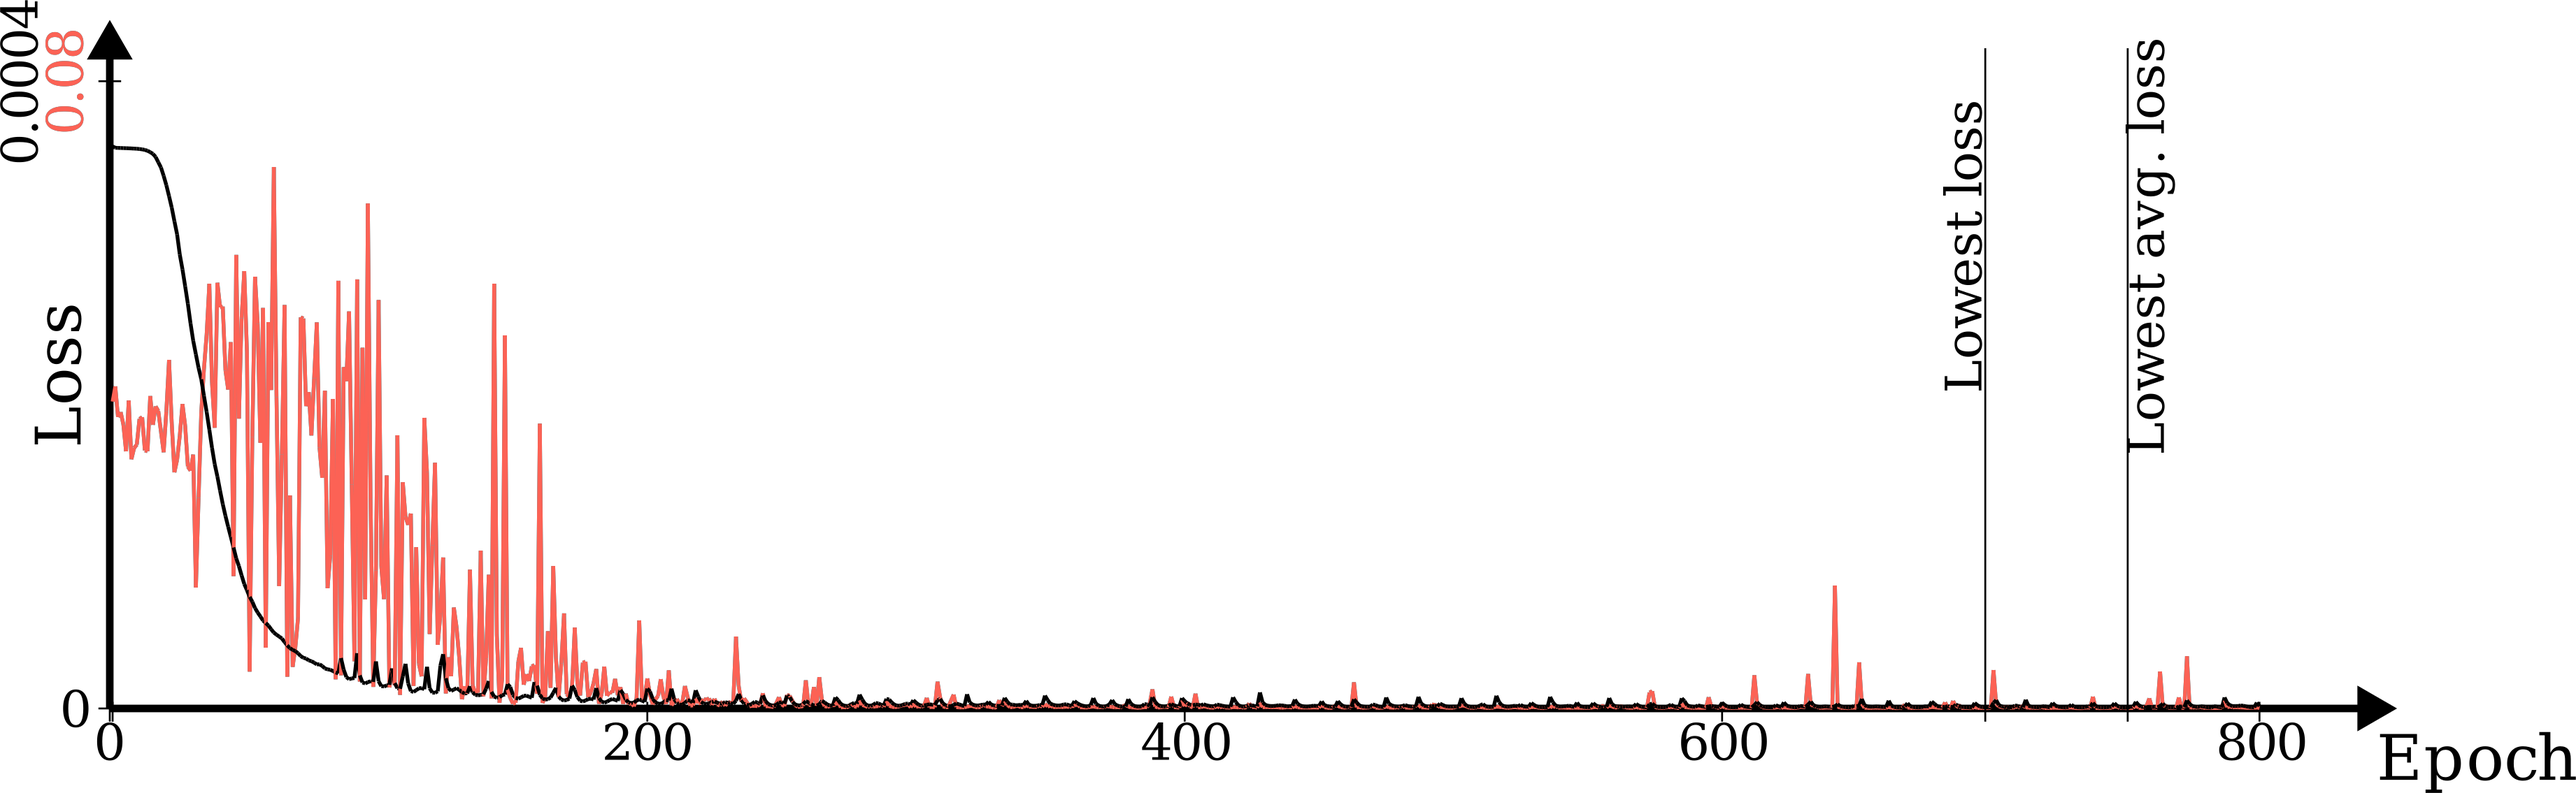
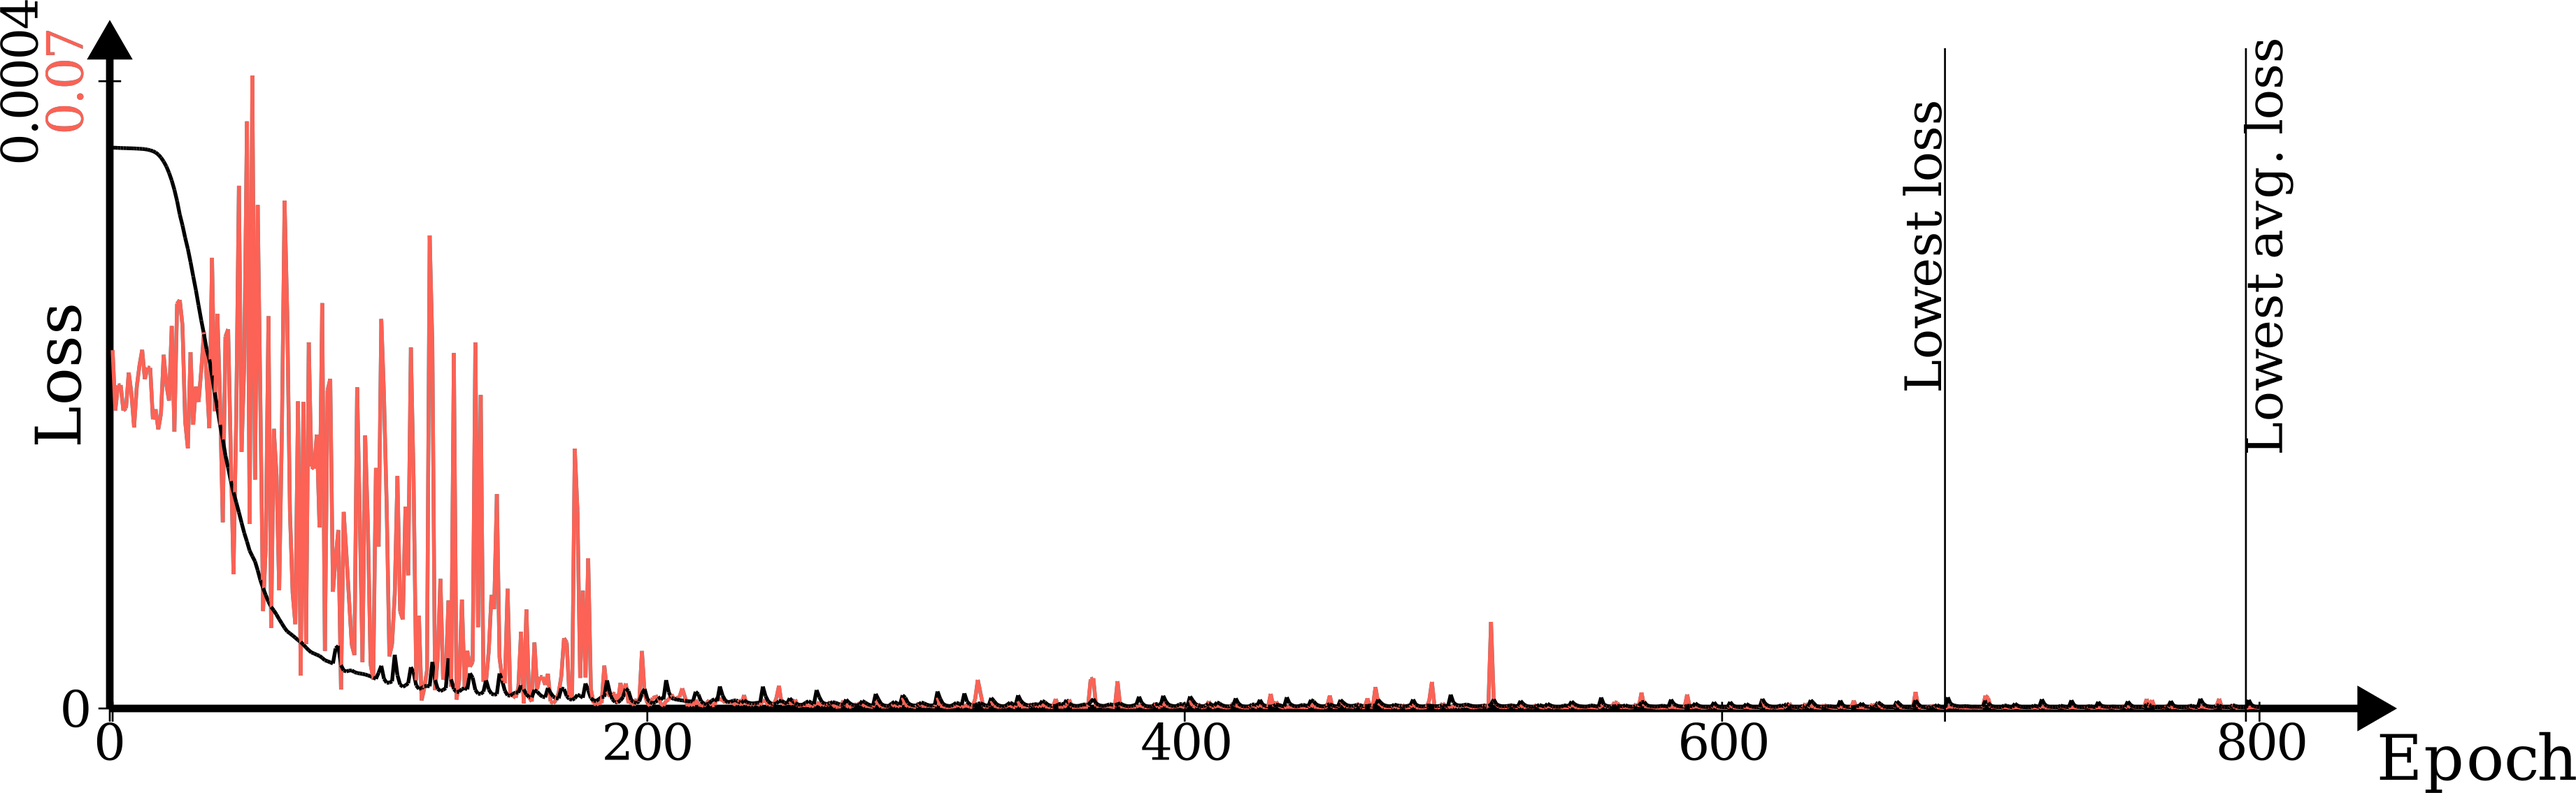
Left out files uploaded.

diff --git a/time_models.py b/time_models.py
@@ -5,7 +5,13 @@ parser = argparse.ArgumentParser()
 parser.add_argument("model")
 parser.add_argument("seed_start")
 parser.add_argument("seed_end")
+parser.add_argument("device")
 args = parser.parse_args()
+
+target_device = "cpu"
+
+if args.device:
+    target_device = args.device
 
 program_start = time.time()
 
@@ -20,6 +26,7 @@ def time_worley(seed_start,seed_end):
     for seed in range(seed_start,seed_end):
         w, c = worley((4,4), dens=16, seed=seed)
         w = w[0] 
+
         for x in range(64):
             for y in range(64):
                 data = w[x][y]
@@ -57,6 +64,8 @@ def time_model_nn(seed_start,seed_end):
     section_time = time.time()
     model.load_state_dict(torch.load(args.model,weights_only=True))
     print("\tLoading of the Neural Network Model took:",time.time()-section_time)
+    
+    model = model.to(target_device)
 
     preparation_time = 0
     generation_time = 0
@@ -70,7 +79,7 @@ def time_model_nn(seed_start,seed_end):
         seed = [float(x) for x in seed]
         seed = torch.Tensor(seed)
         seed = seed.view(-1,16)
-        
+        seed = seed.to(target_device)
         preparation_time += time.time()-section_time
         section_time = time.time()
 
@@ -104,6 +113,8 @@ def time_model_ced(seed_start,seed_end):
     model.load_state_dict(torch.load(args.model,weights_only=True))
     print("\tLoading of the Conditional Encoder Decoder Model took:",time.time()-section_time)
    
+    model = model.to(target_device)  
+
     preparation_time = 0
     generation_time = 0
     parsing_time = 0
@@ -116,11 +127,13 @@ def time_model_ced(seed_start,seed_end):
         sigmoid = torch.nn.Sigmoid()
         image = sigmoid(image)
         image = image.view(-1,64,64)        
+        image = image.to(target_device)
 
         seed = format(seed,"016b")
         seed = [float(x) for x in seed]
         seed = torch.Tensor(seed)
         seed = seed.view(-1,16) 
+        seed = seed.to(target_device)
         
         preparation_time += time.time()-section_time
         section_time = time.time()
@@ -161,6 +174,7 @@ def time_model_hy(seed_start,seed_end):
     model.load_state_dict(torch.load(args.model,weights_only=True))
     print("\tLoading of the Hybrid Model took:",time.time()-section_time)
     
+    model = model.to(target_device)
         
     preparation_time = 0
     generation_time = 0
@@ -174,7 +188,8 @@ def time_model_hy(seed_start,seed_end):
         seed = [float(x) for x in seed]
         seed = torch.Tensor(seed)
         seed = seed.view(-1,16)
-        
+        seed = seed.to(target_device)
+
         preparation_time += time.time()-section_time
         section_time = time.time()
 

diff --git a/manim_files/plot_model_loss.py b/manim_files/plot_model_loss.py
@@ -27,13 +27,13 @@ class modelLoss(Scene):
         #Variables
         x_scale = 0.95
         y_scale = 0.95
-        y_max_avg_data = 0.003
-        y_max_eval_data = 0.1
+        y_max_avg_data = 0.0004
+        y_max_eval_data = 0.07
         
         ################################
         #Loading data
         
-        file = open("os_model_12_ced\\model_12.stat","r")
+        file = open("w_model_14_hy\\model_14.stat","r")
         
         dataset = file.read()
         dataset = dataset[0:-1].split("\n")
